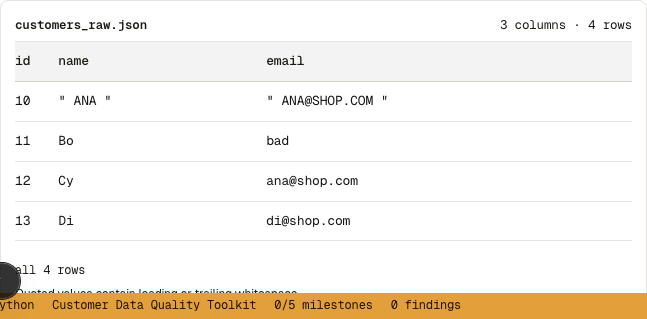
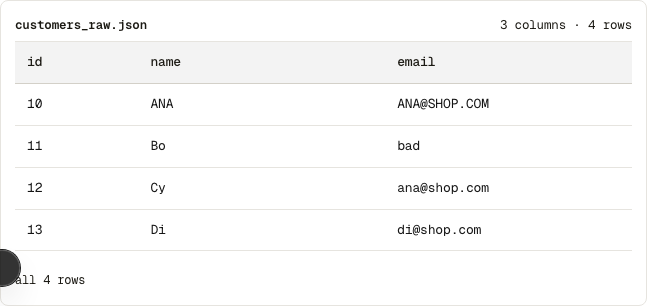
Simplify Python table values and balance column spacing

diff --git a/src/features/py/Study.tsx b/src/features/py/Study.tsx
@@ -11,10 +11,10 @@ import { CodePane, type CodePaneHandle } from './CodePane';
 import { filePreview } from './file-preview';
 import { Rich } from './Rich';
 
-/** Preserve raw values while making padding whitespace explicit instead of misaligning cells. */
+/** Keep source values intact; ordinary text layout aligns the preview cells. */
 function DataValue({ value }: { value: unknown }) {
   if (value == null) return <span className="rx-dim">—</span>;
-  if (typeof value === 'string' && value.trim() !== value) return <span title="Quotes show leading or trailing whitespace">{JSON.stringify(value)}</span>;
+  if (typeof value === 'string' && value.trim() !== value) return <span title={JSON.stringify(value)}>{value}</span>;
   return <>{typeof value === 'object' ? JSON.stringify(value) : String(value)}</>;
 }
 
@@ -23,17 +23,18 @@ export function FileData({ files, full = false }: { files: Record<string,string>
   return <div className={`py-file-data${full ? " py-file-data-full" : ""}`}>{Object.entries(files).map(([name,text]) => {
     const preview = filePreview(name,text);
     const rows = preview ? (full ? preview.rows : preview.rows.slice(0,5)) : [];
-    const hasWhitespace = rows.some(row => row.some(value => typeof value === 'string' && value.trim() !== value));
+    const weights = preview?.columns.map((column,c) => column === 'id' ? 6 : Math.min(28, Math.max(12, column.length, ...rows.map(row => String(row[c] ?? '').trim().length)))) ?? [];
+    const totalWeight = weights.reduce((sum, weight) => sum + weight, 0);
     return <details key={name} className="rx-schema-table" open>
       <summary className="mono"><b>{name}</b>{preview && <span>{preview.columns.length} columns · {preview.rows.length} rows</span>}</summary>
       {preview ? <>
         <div className="rx-table-wrap" tabIndex={0} role="region" aria-label={`${name} preview`}>
-          <table className="rx-table rx-data"><thead><tr>{preview.columns.map(c => <th key={c} scope="col" className={c === 'id' ? 'py-data-id' : undefined}>{c}</th>)}</tr></thead>
+          <table className="rx-table rx-data"><colgroup>{weights.map((weight,i) => <col key={i} style={{width:`${weight / totalWeight * 100}%`}} />)}</colgroup><thead><tr>{preview.columns.map(c => <th key={c} scope="col" className={c === 'id' ? 'py-data-id' : undefined}>{c}</th>)}</tr></thead>
             <tbody>{rows.map((row,i) => <tr key={i}>{preview.columns.map((column,c) => <td key={column} className={column === 'id' ? 'py-data-id' : undefined}><DataValue value={row[c]} /></td>)}</tr>)}</tbody>
           </table>
         </div>
         <div className="py-file-records" aria-label={`${name} records`}>{rows.map((row,i) => <dl key={i}>{preview.columns.map((column,c) => <div key={column}><dt>{column}</dt><dd><DataValue value={row[c]} /></dd></div>)}</dl>)}</div>
-        <p className="rx-table-foot">{!full && preview.rows.length>5 ? `showing 5 of ${preview.rows.length} rows` : `all ${preview.rows.length} rows`}{hasWhitespace && <span className="py-data-note">Quoted values contain leading or trailing whitespace.</span>}</p>
+        <p className="rx-table-foot">{!full && preview.rows.length>5 ? `showing 5 of ${preview.rows.length} rows` : `all ${preview.rows.length} rows`}</p>
       </> : <pre tabIndex={0} aria-label={name}>{text}</pre>}
     </details>;
   })}</div>;

diff --git a/src/app/python/py.css b/src/app/python/py.css
@@ -335,16 +335,14 @@
 
 .py-file-data-full pre { max-height: none; overflow: visible; white-space: pre-wrap; overflow-wrap: anywhere; }
 .py-file-data-full .rx-table-wrap { overflow: visible; padding-inline: 0; }
-.py-file-data-full .rx-table { table-layout: auto; width: 100%; min-width: 0; }
-.py-file-data .rx-table th, .py-file-data .rx-table td { white-space: normal; overflow-wrap: anywhere; padding: 9px 16px 9px 0; vertical-align: top; }
+.py-file-data-full .rx-table { table-layout: fixed; width: 100%; min-width: 0; }
+.py-file-data .rx-table th, .py-file-data .rx-table td { white-space: normal; overflow-wrap: anywhere; padding: 10px 12px; vertical-align: top; }
 .py-file-data-full summary { flex-wrap: wrap; }
 
 .py-file-data .rx-schema-table { container-type: inline-size; }
 .py-file-data summary { align-items: baseline; flex-wrap: wrap; gap: 4px 12px; }
 .py-file-data summary span { font-weight: 400; }
-.py-file-data .rx-table .py-data-id { width: 1%; min-width: 3ch; white-space: nowrap; padding-right: 28px; }
-.py-file-data .rx-table th:last-child, .py-file-data .rx-table td:last-child { padding-right: 0; }
-.py-data-note { display: block; margin-top: 4px; font-family: var(--rx-sans); color: var(--rx-dim); }
+.py-file-data .rx-table .py-data-id { white-space: nowrap; }
 .py-file-records { display: none; }
 .py-file-records dl { margin: 0; padding: 10px 0; border-bottom: 1px solid var(--rx-line); }
 .py-file-records dl > div { display: grid; grid-template-columns: minmax(90px, 2fr) minmax(0, 3fr); gap: 12px; padding: 6px 0; }
